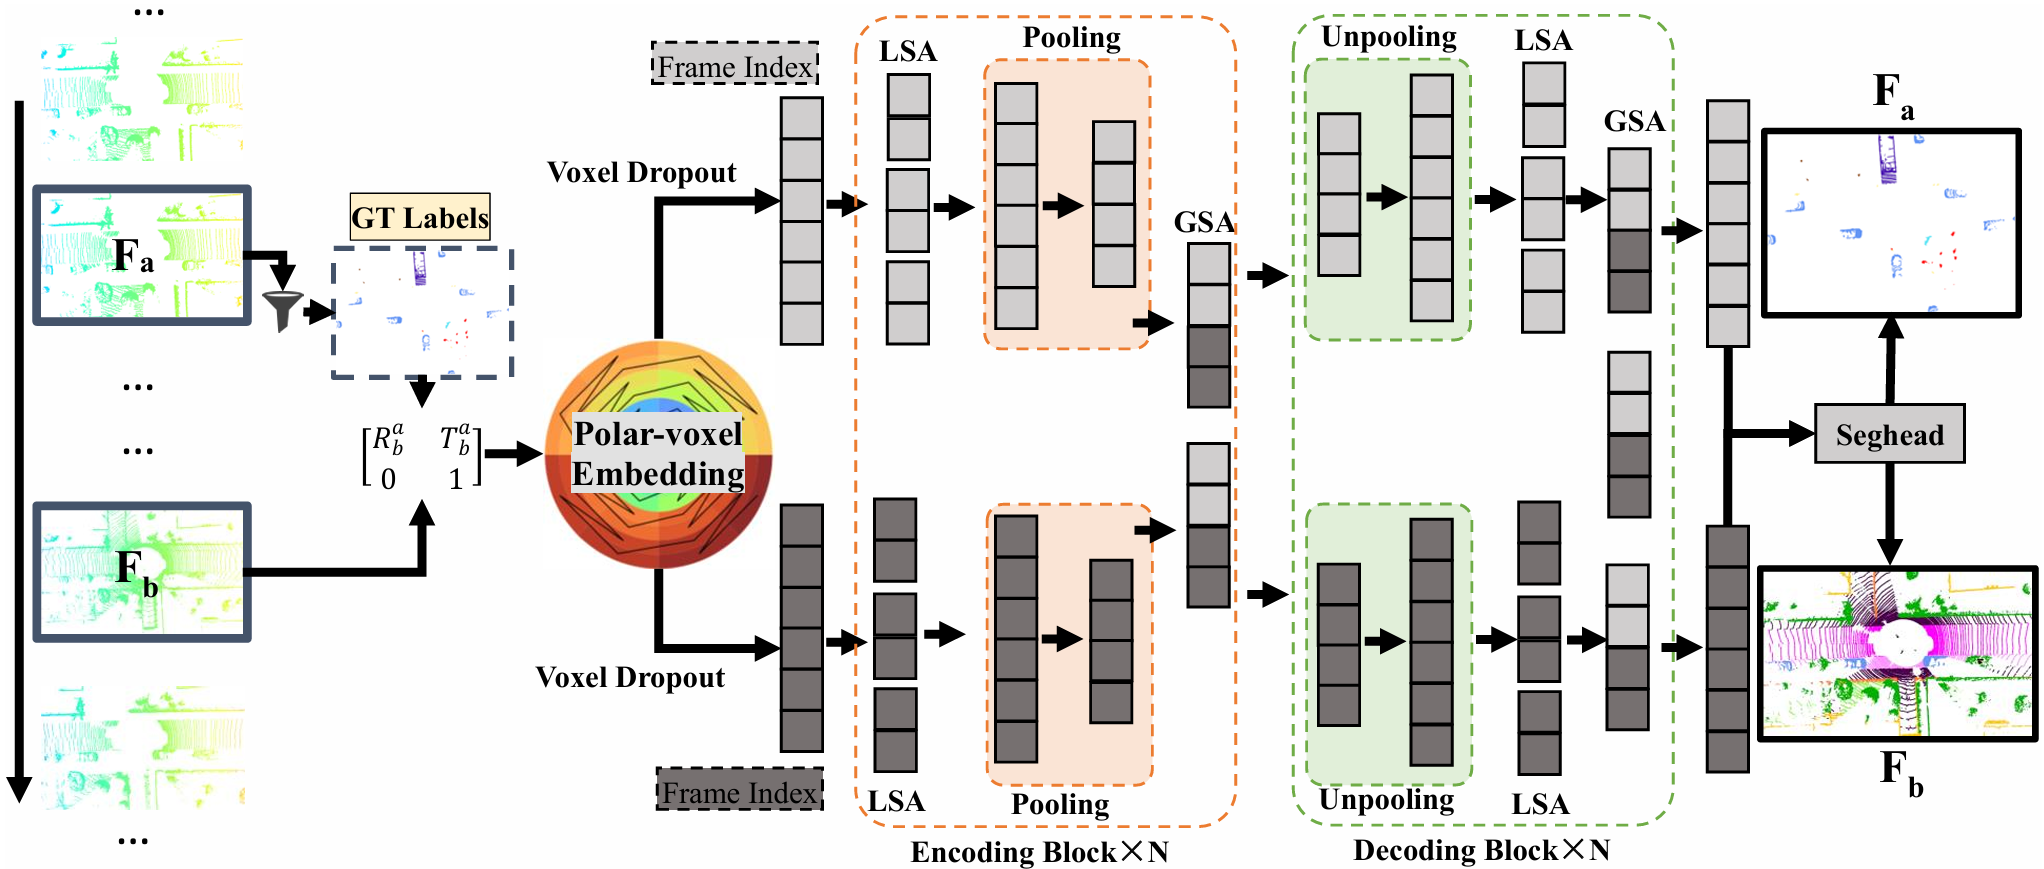
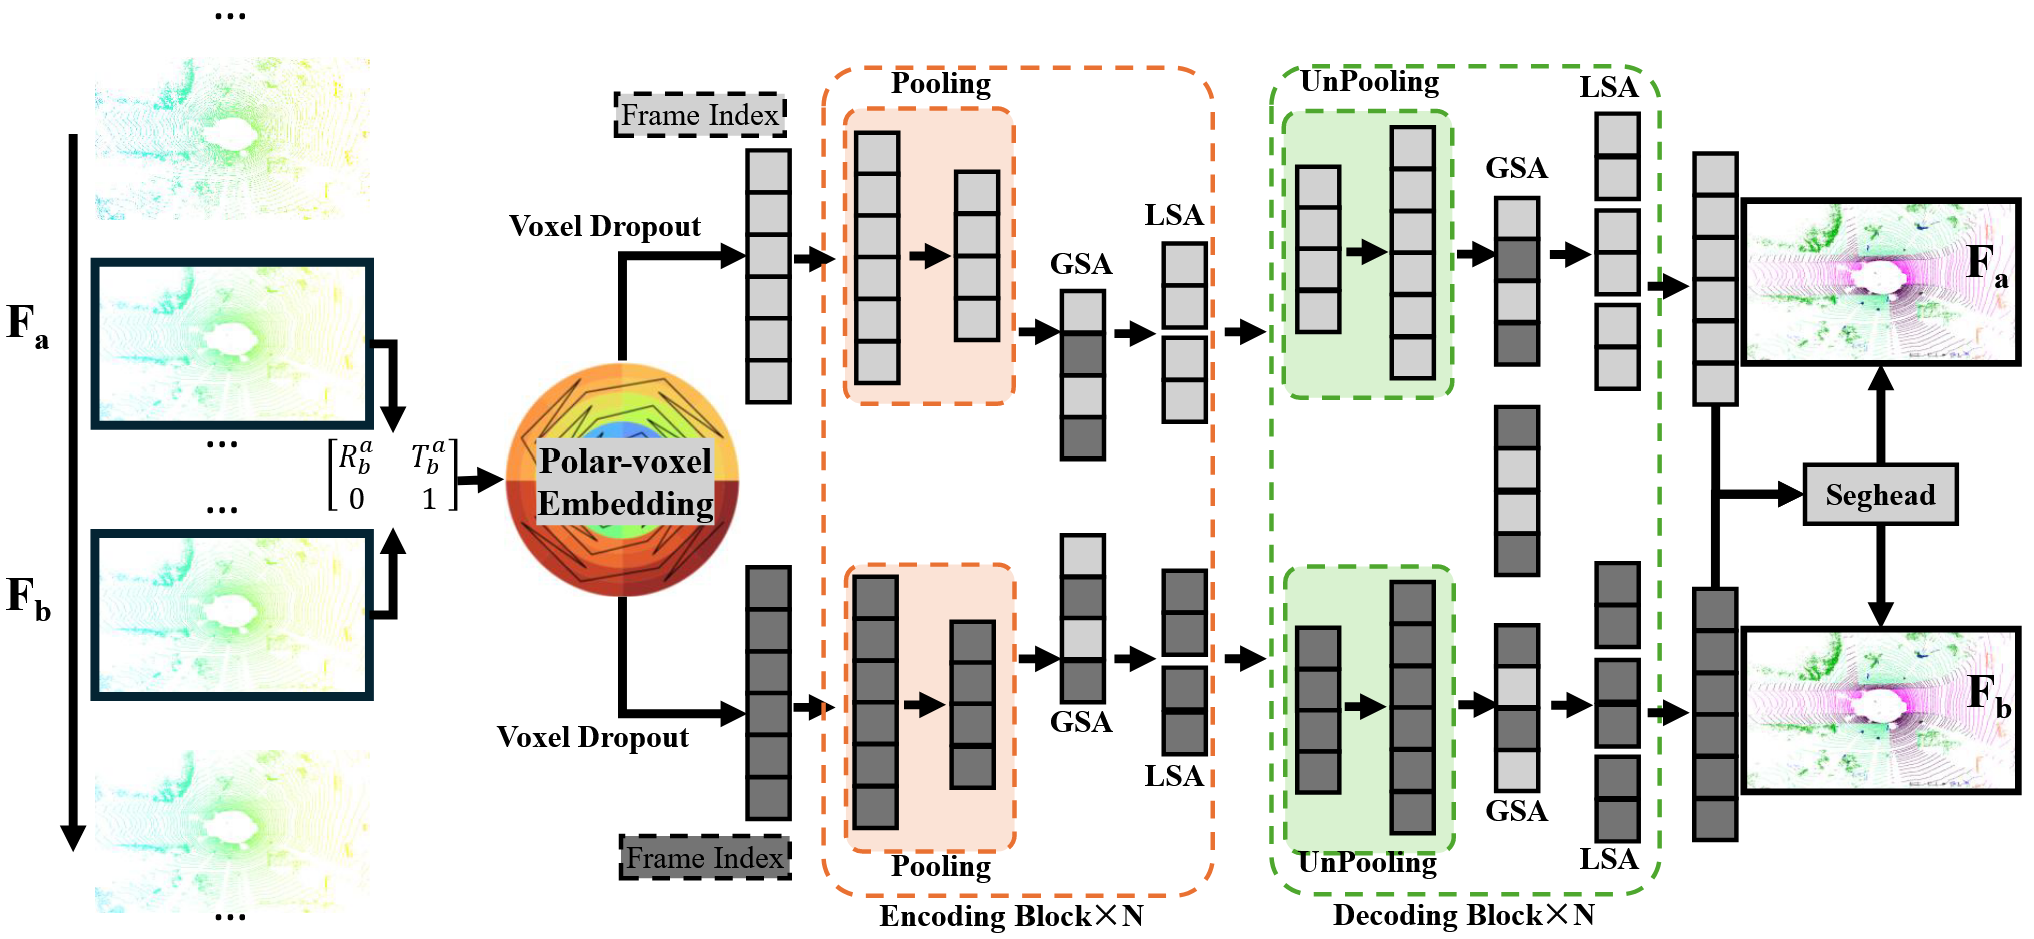
update readme

diff --git a/README.md b/README.md
@@ -1,17 +1,117 @@
 # Cylinder-Former: Temporal-Aware Cylindrical-Serialized Point Transformer
 
-This repository is the official implementation of [Cylinder-Former: Temporal-Aware Cylindrical-Serialized Point Transformer](https://arxiv.org/)
+This repository provides the official implementation of the paper "Cylinder-Former: Temporal-Aware Cylindrical-Serialized Point Transformer".
 
+## Architecture
 <div align='middle'>
 <img src="images/cylinderformer.png" alt="cylinderformer" width="800" />
 </div>
-
+The architecture diagram above illustrates the Cylinder-Former framework.
 
 ## Overview
 
+- [Quantitative Results](#Quantitative-Results)
+- [Qualitative Results](#Qualitative-Results)
 - [Installation](#installation)
 - [Data Preparation](#data-preparation)
 - [Quick Start](#quick-start)
+- [CylinderFormer Training Process](#cylinderformer-training-process)
+- [Model Release](#model-release)
+- [Acknowledgement](#Acknowledgement)
+
+
+## Quantitative Results
+
+We evaluate our Cylinder-Former on the SemanticKITTI validation set (Sequence 08) and compare it against state-of-the-art methods. Table below presents the per-class IoU and mean IoU (mIoU) for 19 semantic categories. There are three versions of Cylinder-Former (CF). The first is a standard multi-frame fusion version without knowledge distillation. CF (GT) serves as the teacher model, which incorporates historical frame fusion based on ground truth (GT) labels for FSA. And It is also used to estimate the theoretical upper bound of the model’s achievable segmentation mIoU (77.8%) under current multi-frame architecture. CF (KD) with an mIoU of 72.1%, on the other hand, is the student model derived from the distillation strategy based on CF (GT), and it only performs segmentation on the current frame. 
+
+### Quantitative Results of SOTA on SemanticKITTI Val Set
+
+| Modality | Methods | mIoU | car | pole | road | fence | truck | trunk | person | terrain | bicycle | parking | building | bicyclist | sidewalk | vegetation | traffic-sign | motorcycle | motorcyclist | other-vehicle | other-ground |
+|----------|------|------|-----|------|------|-------|-------|-------|--------|---------|---------|---------|----------|-----------|----------|------------|--------------|------------|--------------|---------------|--------------|
+| **Point** | RandLA-Net | 53.9 | 94.2 | 26.0 | 25.8 | 40.1 | 38.9 | 49.2 | 48.2 | 7.2 | 90.7 | 60.3 | 73.7 | 20.4 | 86.9 | 56.3 | 81.4 | 61.3 | 66.8 | 49.2 | 47.7 |
+| **Point**| WaffleIron | 68.0 | 96.1 | 58.1 | 79.7 | 77.4 | 59.0 | 81.1 | 92.2 | 1.3 | 95.5 | 50.2 | 83.6 | 6.0 | 92.1 | 67.5 | 87.8 | 73.8 | 73.0 | 65.7 | 52.2 |
+| **Point**| PTv2 | 69.7 | 95.7 | 57.7 | 83.0 | 92.6 | 48.5 | 81.0 | 90.0 | 39.1 | 95.4 | 42.8 | 83.4 | 0.2 | 92.0 | 65.6 | 88.3 | 73.1 | 74.3 | 67.2 | 53.6 |
+| **Projection** | RangeNet53++ | 52.2 | 91.4 | 25.7 | 34.4 | 25.7 | 23.0 | 38.3 | 38.8 | 4.8 | 91.8 | 65.0 | 75.2 | 27.8 | 87.4 | 58.6 | 80.5 | 55.1 | 64.6 | 47.9 | 55.9 |
+| **Projection**| SqueezeSeg | 55.9 | 92.5 | 38.7 | 36.5 | 29.6 | 33.0 | 45.6 | 46.2 | 20.1 | 91.7 | 63.4 | 74.8 | 26.4 | 89.0 | 59.4 | 82.0 | 58.7 | 65.4 | 49.6 | 58.9 |
+| **Projection**| FIDNet | 62.7 | 94.2 | 44.4 | 59.6 | 81.9 | 46.2 | 73.1 | 85.3 | 0.0 | 95.2 | 38.8 | 82.6 | 1.7 | 88.0 | 52.5 | 84.6 | 67.3 | 68.4 | 68.9 | 57.6 |
+| **Projection**| SalsaNext | 62.9 | 95.1 | 54.2 | 50.8 | 78.5 | 44.5 | 67.9 | 87.1 | 0.0 | 95.2 | 51.7 | 82.5 | 0.7 | 86.3 | 57.0 | 85.0 | 66.0 | 70.0 | 68.5 | 54.3 |
+| **Projection**| FRNet | 63.2 | 96.5 | 47.8 | 61.2 | 75.7 | 65.2 | 64.3 | 77.9 | 3.1 | 95.7 | 56.4 | 83.4 | 4.9 | 89.2 | 55.8 | 84.9 | 59.4 | 72.4 | 62.3 | 46.1 |
+| **Projection**| CENET | 65.5 | 95.7 | 52.9 | 74.7 | 72.1 | 66.2 | 79.0 | 86.4 | 0.0 | 95.7 | 43.8 | 83.1 | 0.6 | 88.3 | 57.1 | 85.0 | 67.0 | 68.9 | 69.7 | 58.3 |
+| **Voxel** | JS3C-Net | 66.0 | 95.8 | 59.3 | 52.9 | 54.3 | 46.0 | 69.5 | 65.4 | 39.9 | 88.9 | 61.9 | 72.1 | 31.9 | 92.5 | 70.8 | 84.5 | 69.8 | 67.9 | 60.7 | 68.7 |
+| **Voxel**| Cylinder3D | 67.8 | 97.1 | 67.6 | 64.0 | 59.0 | 58.6 | 73.9 | 67.9 | 36.0 | 91.4 | 65.1 | 75.5 | 32.3 | 91.0 | 66.5 | 85.4 | 71.8 | 68.5 | 62.6 | 65.6 |
+| **Voxel**| LPSF-LiDARNet | 68.4 | 97.2 | 56.7 | 73.1 | 68.6 | 66.1 | 79.7 | 90.4 | 38.3 | 93.9 | 48.6 | 81.3 | 3.1 | 91.6 | 62.0 | 87.5 | 69.1 | 73.6 | 64.8 | 53.3 |
+| **Voxel**| MinkUNet | 70.4 | 98.0 | 61.0 | 83.0 | 93.1 | 82.7 | 80.3 | 90.4 | 11.0 | 94.2 | 56.5 | 82.2 | 0.1 | 92.2 | 68.7 | 88.5 | 69.0 | 74.7 | 66.0 | 47.0 |
+| **Fusion** | LatticeNet | 52.9 | 92.9 | 16.6 | 22.2 | 26.6 | 21.4 | 35.6 | 43.0 | 46.0 | 90.0 | 59.4 | 74.1 | 22.0 | 88.2 | 58.8 | 81.7 | 63.6 | 63.1 | 51.9 | 48.4 |
+| **Fusion**| RPVNet | 68.7 | 98.0 | 43.7 | 81.9 | 88.6 | 79.9 | 76.8 | 93.2 | 0.1 | 95.4 | 55.8 | 83.6 | 0.2 | 91.7 | 65.1 | 87.9 | 69.8 | 73.8 | 66.8 | 52.4 |
+| **Fusion**| SPVCNN | 70.1 | 97.5 | 60.4 | 85.1 | 86.3 | 79.1 | 81.9 | 92.9 | 7.1 | 94.1 | 57.7 | 82.2 | 0.2 | 91.7 | 66.4 | 88.4 | 68.4 | 74.4 | 65.6 | 52.2 |
+| **Serialization** | PTv3  | 68.2 | 96.9 | 53.7 | 77.2 | 86.8 | 68.8 | 76.9 | 90.5 | 0.0 | 95.2 | 55.9 | 84.5 | 1.0 | 90.8 | 63.0 | 88.5 | 71.6 | 75.0 | 66.9 | 53.1 |
+| **Serialization**| **Cylinder-Former** | **70.9** | **98.0** | **60.2** | **79.8** | **94.4** | **83.4** | **81.0** | **92.6** | **0.0** | **95.9** | **62.3** | **84.6** | **0.2** | **91.3** | **64.8** | **88.5** | **73.1** | **74.9** | **66.5** | **54.7** |
+| **Serialization**| **Cylinder-Former (KD)** | **72.1** | **98.1** | **57.6** | **75.5** | **95.1** | **83.8** | **77.1** | **91.2** | **0.0** | **95.9** | **68.3** | **87.7** | **0.1** | **94.1** | **79.6** | **91.8** | **76.5** | **82.1** | **66.4** | **49.9** |
+| **Serialization**| **Cylinder-Former (GT)** | **77.8** | **98.4** | **69.4** | **77.4** | **97.0** | **92.9** | **86.6** | **92.4** | **0.0** | **96.4** | **74.4** | **91.2** | **11.5** | **95.1** | **89.1** | **97.0** | **88.5** | **91.1** | **73.3** | **58.0** |
+
+
+## Qualitative Results
+### Single-Frame Segmentation Comparison
+The following table presents a gingle-frame visual comparison of segmentation results on validation sequences. Four models are evaluated: Ground Truth (GT), PTv3 without PPT (baseline, mIoU=68.2%), CylinderFormer (mIoU=70.9%), and CylinderFormer with Knowledge Distillation (CylinderFormer(KD), mIoU=72.1%). Results are shown for frames 000364 and 002562.
+
+| Frame  |            GT             |      PTv3 Without PPT (baseline) (mIoU=68.2%)      |           CylinderFormer (mIoU=70.9%)            |          CylinderFormer(KD) (mIoU=72.1%)           |
+|:-------|:--------------------------------------------------:|:--------------------------------------------------:|:------------------------------------------------:|:--------------------------------------------------:|
+| 000364 | <img src="images/364/GT.png" width="200"/> | <img src="images/364/ptv3_pred.png" width="200"/>  | <img src="images/364/cf_pred.png" width="200"/>  | <img src="images/364/cfkd_pred.png" width="200"/>  |
+| 002562 | <img src="images/2562/GT.png" width="200"/> | <img src="images/2562/ptv3_pred.png" width="200"/> | <img src="images/2562/cf_pred.png" width="200"/> | <img src="images/2562/cfkd_pred.png" width="200"/> |
+
+### Sequential Segmentation Label Visualization
+The videos below demonstrate continuous segmentation label predictions over time:
+
+<div align='middle'>
+<video controls width="600" poster="images/2562/ptv3_pred.png">
+  <source src="images/ptv3_pred.mp4" type="video/mp4">
+</video>
+
+PTv3 Without PPT (baseline)
+
+<video controls width="600" poster="images/2562/cf_pred.png">
+  <source src="images/cf_pred.mp4" type="video/mp4">
+</video>
+
+CylinderFormer
+
+<video controls width="600" poster="images/2562/cfkd_pred.png">
+  <source src="images/cfkd_pred.mp4" type="video/mp4">
+</video>
+
+CylinderFormer(KD)
+</div>
+
+### Single-Frame Correctness Comparison
+This table provides a binary visualization where gray indicates correctly segmented points and red indicates misclassified points, offering insight into error distributions across models.
+
+| Frame  |            GT             |      PTv3 Without PPT (baseline) (mIoU=68.2%)      |           CylinderFormer (mIoU=70.9%)            |          CylinderFormer(KD) (mIoU=72.1%)           |
+|:-------|:--------------------------------------------------:|:---------------------------------------------:|:-------------------------------------------:|:---------------------------------------------:|
+| 000364 | <img src="images/364/GT.png" width="200"/> | <img src="images/364/ptv3.png" width="200"/>  | <img src="images/364/cf.png" width="200"/>  | <img src="images/364/cfkd.png" width="200"/>  |
+| 002562 | <img src="images/2562/GT.png" width="200"/> | <img src="images/2562/ptv3.png" width="200"/> | <img src="images/2562/cf.png" width="200"/> | <img src="images/2562/cfkd.png" width="200"/> |
+
+### Sequential Correctness Visualization
+The following videos display temporal consistency of correct (gray) and incorrect (red) predictions:
+
+<div align='middle'>
+<video controls width="600" poster="images/2562/ptv3.png">
+  <source src="images/ptv3.mp4" type="video/mp4">
+</video>
+
+PTv3 Without PPT (baseline)
+
+<video controls width="600" poster="images/2562/cf.png">
+  <source src="images/cf_pred.mp4" type="video/mp4">
+</video>
+
+CylinderFormer
+
+<video controls width="600" poster="images/2562/cfkd.png">
+  <source src="images/cfkd.mp4" type="video/mp4">
+</video>
+
+CylinderFormer(KD)
+</div>
 
 ## Installation
 
@@ -137,4 +237,20 @@ data = dict(
 )
 ```
 
+## CylinderFormer Training Process
 
+The Cylinder-Former model is trained through a three-stage pipeline to progressively enhance performance while managing computational complexity:
+
+1. **Multi-Frame Training**: First, a multi-frame fusion model is trained **without FSA (Flexible Step Aggregation)**. This configuration achieves 70.5% mIoU and serves as the initial checkpoint to generate segmentation predictions for subsequent training phases.
+
+2. **FSA-Enhanced Teacher Training**: Next, a multi-frame model **with FSA** is trained using ground truth (GT) point clouds. During training, FSA selectively fuses points from weak classes (IoU < 70% or point ratio < 0.5%) from historical frames. This model reaches 70.9% mIoU when evaluated using the previous stage's predictions for FSA inference. If GT labels are used for FSA during evaluation, it becomes the **teacher model** achieving 77.8% mIoU (the theoretical upper bound).
+
+3. **Knowledge Distillation for Student Model**: Finally, the teacher model distills knowledge to train a **single-frame student model**. The student receives only the current frame as input (no direct access to supplementary frame GT labels), but benefits from FSA supervision using GT labels during training. This yields the efficient Cylinder-Former (KD) model with 72.1% mIoU.
+
+## Model Release
+
+**The trained models will be released after the paper is published.**
+
+## Acknowledgement
+
+This work is inspired by and built upon several open-source frameworks: [Pointcept](https://github.com/Pointcept/Pointcept), [MinkowskiEngine](https://github.com/NVIDIA/MinkowskiEngine), [pointnet2](https://github.com/charlesq34/pointnet2), [mmcv](https://github.com/open-mmlab/mmcv/tree/master/mmcv), and [Detectron2](https://github.com/facebookresearch/detectron2).
